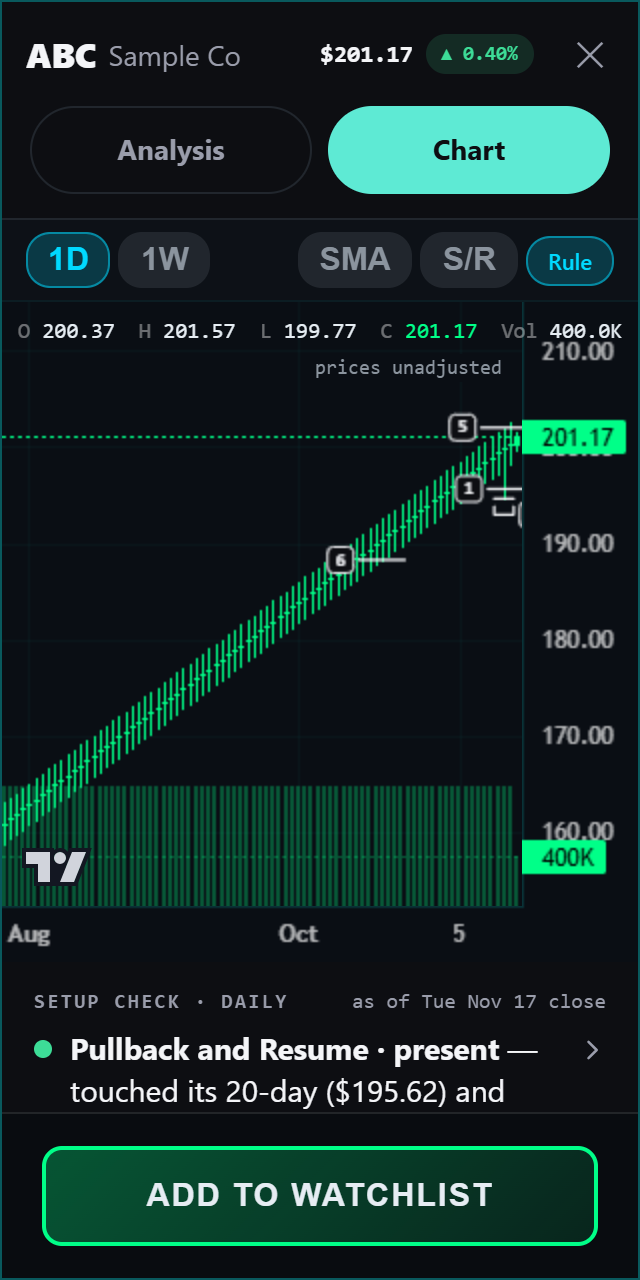
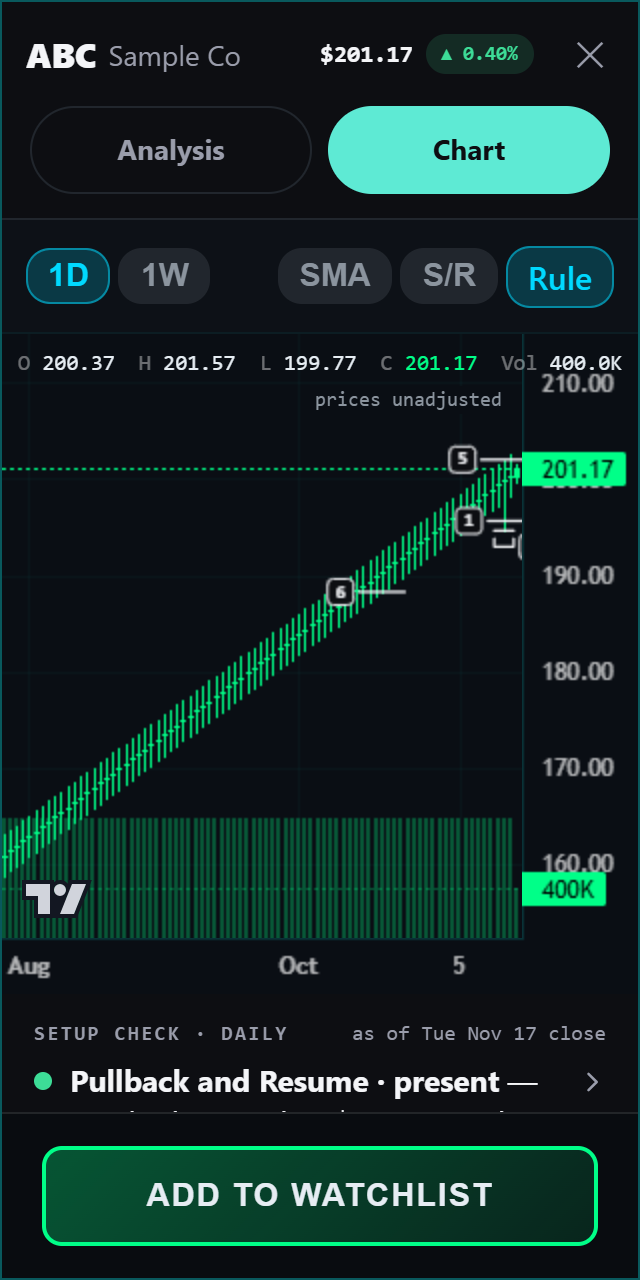
fix(chart-read): the sheet's short-screen floor 45 % → 40 %; the real-browser evidence re-run on the reviewed code
At 320 × 640 the sheet under the shrunken plot is 230 px and a 45 % floor
(238 px) made it rise 8 px over the plot; 40 % keeps it at the plot's edge
there while a phone on its side still gets the rise.

docs/audits/20261118_BUILD_CHART_READ/: headless Edge, 390 and 320, re-run
on the code after the three review lenses — 65 rows, 0 failing, including the
rows the review tightened: the Rule chip hit-tested on all four edges (44 × 44),
the plot yielding height, the sheet's own sideways scroll, Escape from the Rule
chip closing only the sheet. Screenshots refreshed.

diff --git a/src/components/Research/ChartRead/ChartReadSheet.jsx b/src/components/Research/ChartRead/ChartReadSheet.jsx
@@ -25,7 +25,7 @@ const mono = (size, color) => ({ fontFamily: MONO, fontSize: size, color, lineHe
 const bare = { all: 'unset', boxSizing: 'border-box' };
 const GLYPH = { pass: ['✓', ST.green], fail: ['✗', ST.ink2], unknown: ['–', ST.ink3], quiet: ['·', ST.ink3] };
 /** The least share of the view the sheet takes (a short screen: it rises over the plot's lower part). */
-export const SHEET_MIN_SHARE = 0.45;
+export const SHEET_MIN_SHARE = 0.4;
 
 const msOf = (v) => {
   if (typeof v === 'number' && Number.isFinite(v)) return v;

diff --git a/docs/specs/CHART_READ_SPEC_V1.md b/docs/specs/CHART_READ_SPEC_V1.md
@@ -38,7 +38,7 @@
 | R-5 | **Mark 3's day** is five sessions before the record's day, counted on the daily series' own dates (the same on 1D and 1W). |
 | R-6 | **The candles are unadjusted under every read that shows** (any answer, a quiet state included); after a failed read, or with no slot, they stay today's. |
 | R-7 | **The Battle chart's read** keeps its lead, drops its second line and carries round 6 F's note *Daily marks are on 1D and 1W, not on these 30-minute bars.* |
-| R-8 | **While the sheet is open** the action row gives way to it and the plot yields height to about 42 % of the view (round 6 B: a 300 px plot over 844), so the sheet starts at the plot's lower edge; on a short screen it takes at least 45 % of the view and rises over the plot's lower part. |
+| R-8 | **While the sheet is open** the action row gives way to it and the plot yields height to about 42 % of the view (round 6 B: a 300 px plot over 844), so the sheet starts at the plot's lower edge; on a short screen it takes at least 40 % of the view and rises over the plot’s lower part. |
 | R-9 | **The other pattern's group** reads *not present* in quiet ink in either valid state (the prompt names Pullback; Breakout is treated the same), unless that pattern is satisfied too. |
 | R-10 | **An unknown rule set**: one line, *Measured by rule set {x}; this app can't show that rule's marks yet.*; no marks, no sheet. A record whose numbers cannot be worded (a needed fact null, an off-list reason, a chain that disagrees with its pairs) is one line, *This record can't be shown.* |
 | R-11 | **An earlier record the projection cannot read** throws (500), never a null `previous`. A refused `read` still carries its `previous` (RD-1 names only a null read). |
